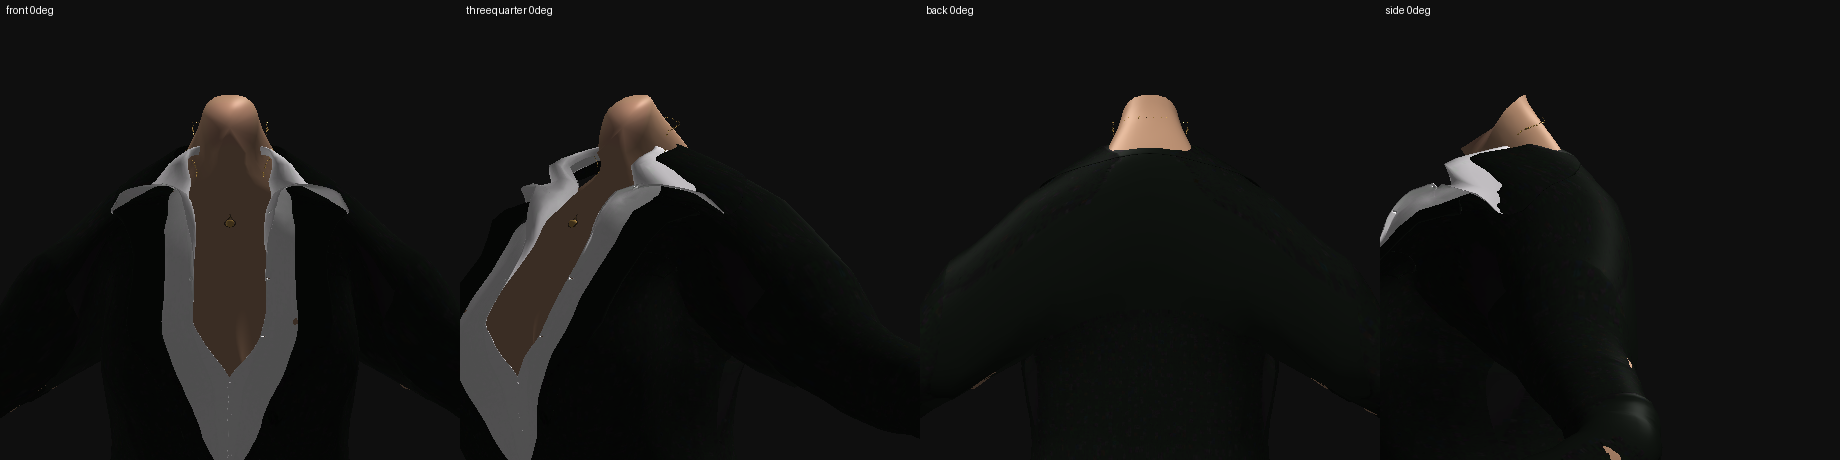
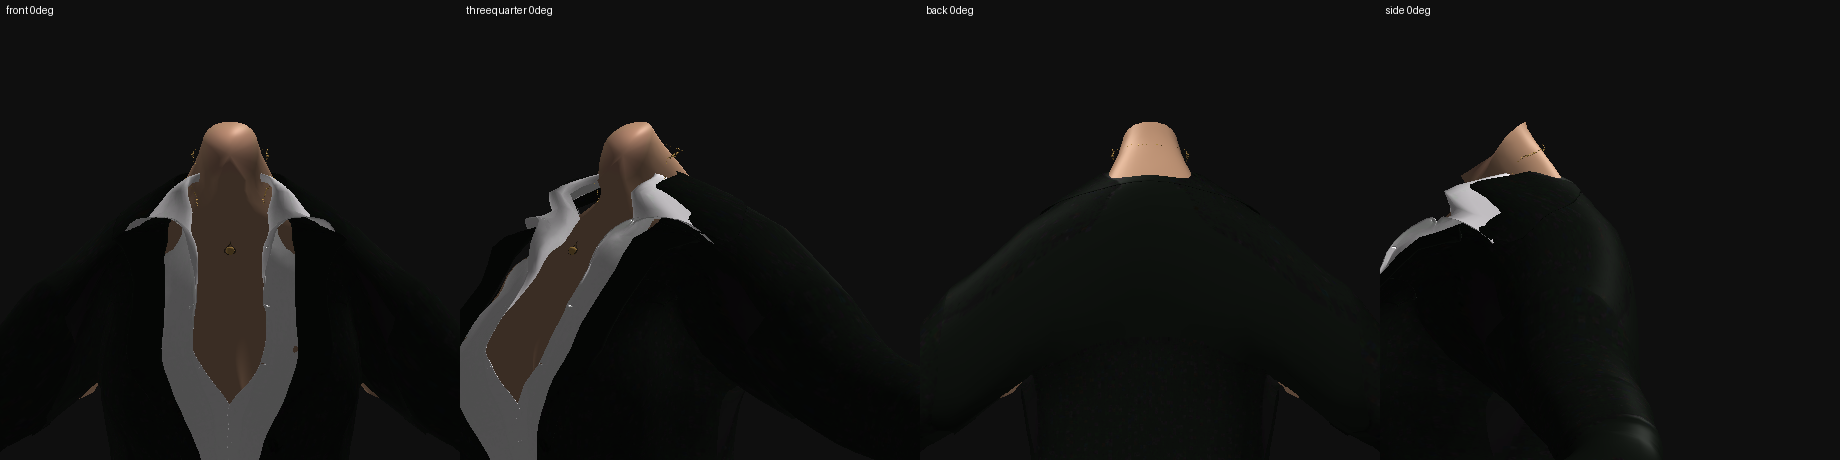
fix(skyrim): nest shoulder layers after garment redress

diff --git a/tools/pd2-las/build_business_woman.py b/tools/pd2-las/build_business_woman.py
@@ -305,41 +305,6 @@ def main(argv=None) -> int:
         n = bm.restore_bust(groups[gname])
         print(f"[{gname}] bust verts restored: {n}")
 
-    # A thin line of underarm skin renders in front of the blazer's overlap
-    # armhole after the retarget. Tuck that skin behind the jacket (the jacket
-    # itself is left alone — welding its overlap edges distorts the sleeve).
-    for gname in ("body", "shadow"):
-        n = bm.tuck_underarm_skin(groups[gname], amount=1.2)
-        print(f"[{gname}] underarm skin verts tucked: {n}")
-
-    # The white shirt's sleeves (jacket2) are 100% arm-weighted and sit below the
-    # shoulder-stay band, so they poke through the blazer sleeve as white patches
-    # on the upper arm in-game. Tuck them behind the blazer (blazer untouched).
-    for gname in ("body", "shadow"):
-        n = bm.tuck_shirt_sleeves(groups[gname])
-        print(f"[{gname}] shirt sleeve verts tucked: {n}")
-
-    # The garment sheets carry *duplicated* seam rows: BodySlide exports the
-    # vertices on each UV island's edge twice, coincident, and the retarget gives
-    # each copy its own influence list. Where the two copies disagree (measured:
-    # one copy 100 % `LeftArm`, the other 41 % `Spine2` / 37 % `LeftShoulder` /
-    # 21 % `LeftArm`) the seam splits open the moment the arm leaves the bind
-    # pose, which is the torn shoulder / upper-arm hole in the shipped pack.
-    # Averaging the two copies' weights closes it at every pose.
-    for gname in ("body", "shadow"):
-        rep = bm.weld_open_seams(groups[gname])
-        print(f"[{gname}] open seams fused: {rep['pairs']} pairs {rep['materials']}")
-
-    # The shirt's shoulder is 100 % arm-weighted while the blazer keeps a mixed
-    # shoulder-stay band, so the shirt swings out from under the jacket and
-    # stands up over the shoulder line (the white "wings" in game). Ride the
-    # shirt on the blazer's weights across the shoulder band.
-    for gname in ("body", "shadow"):
-        n = bm.follow_layer_weights(groups[gname])
-        print(f"[{gname}] shirt shoulder verts follow the blazer: {n}")
-        n = bm.tuck_shirt_collar(groups[gname])
-        print(f"[{gname}] shirt collar verts drawn inside the blazer: {n}")
-
     # The retarget's axial spine stretch also lifts and widens the 3BA neck stub
     # (18.8 cm wide at 160 cm; the PD2 reference body is 9.4 cm there), so the
     # neck reads as a stovepipe rising out of the collar. Slim the column before
@@ -361,6 +326,40 @@ def main(argv=None) -> int:
                                      mats=("jacket", "jacket2", "necklace"))
         print(f"[{gname}] garment re-dressed from the source: {rep['moved']} verts "
               f"(peak {rep['peak']:.1f} cm, body scale {rep['scale']:.3f})")
+
+    # Re-dressing changes the jacket/shirt/body clearances. Therefore finish the
+    # shoulder-layer operations AFTER re-dress; doing them before it lets the
+    # re-dress undo the tuck and recreate the very skin/white-shirt tears seen
+    # in the in-game screenshots. First make the open seam rows deform together.
+    for gname in ("body", "shadow"):
+        rep = bm.weld_open_seams(groups[gname])
+        print(f"[{gname}] post-redress open seams fused: "
+              f"{rep['pairs']} pairs {rep['materials']}")
+
+    # The shirt shoulder and the skin beneath the blazer must use the shell's
+    # shoulder-stay weights; otherwise they swing out from under it in idle.
+    for gname in ("body", "shadow"):
+        n = bm.follow_layer_weights(groups[gname], dst_mats=("jacket2",),
+                                    z_lo=136.0, z_hi=160.0,
+                                    max_dist=9.0, x_max=38.0)
+        print(f"[{gname}] shirt shoulder weights follow blazer: {n}")
+        n = bm.follow_layer_weights(groups[gname], dst_mats=("skin",),
+                                    z_lo=136.0, z_hi=160.0,
+                                    max_dist=6.0, x_min=12.0, x_max=38.0)
+        print(f"[{gname}] covered shoulder skin follows blazer weights: {n}")
+
+    # Reapply the actual layer nesting after re-dress: tuck the inner shirt and
+    # body skin behind the blazer only where the outer shell covers them. Include
+    # the shoulder cap (not just the low underarm band) to remove exposed patches.
+    for gname in ("body", "shadow"):
+        n = bm.tuck_shirt_collar(groups[gname])
+        print(f"[{gname}] shirt collar drawn inside blazer: {n}")
+        n = bm.tuck_shirt_sleeves(groups[gname], amount=2.0, near=4.5,
+                                  z_lo=116.0, z_hi=160.0, x_min=18.0)
+        print(f"[{gname}] shirt sleeve/shoulder tucked: {n}")
+        n = bm.tuck_underarm_skin(groups[gname], amount=1.6, near=3.0,
+                                  z_lo=125.0, z_hi=160.0, x_min=11.0)
+        print(f"[{gname}] covered shoulder skin tucked: {n}")
 
     # Every arm layer stops short of the PD2 hand joint (blazer 6.3 cm, shirt
     # cuff 7.5 cm, bare arm 8 cm) because in Skyrim the wearer's own hands used

diff --git a/tools/pd2-las/build_models.py b/tools/pd2-las/build_models.py
@@ -2245,7 +2245,7 @@ def redress_from_source(g: Group, model, mats=("jacket", "jacket2"),
 def follow_layer_weights(g: Group, src_mat: str = "jacket",
                          dst_mats=("jacket2",), z_lo: float = 136.0,
                          z_hi: float = 158.0, max_dist: float = 9.0,
-                         x_max: float = 30.0) -> int:
+                         x_min: float = 0.0, x_max: float = 30.0) -> int:
     """Make an under-layer ride the outer layer over the shoulder.
 
     The white shirt (``jacket2``) is 100 % arm-weighted all the way across the
@@ -2255,9 +2255,11 @@ def follow_layer_weights(g: Group, src_mat: str = "jacket",
     "wings" that flare past the jacket's shoulder line in game (they are absent
     in the bind-pose render, which is why they survived earlier reviews).
 
-    Copying the nearest blazer vertex's influence list onto the shirt in the
-    shoulder band makes both layers deform identically there, so the shirt
-    cannot emerge at any pose. Positions, UVs and topology are untouched.
+    Copying the nearest blazer vertex's influence list onto the selected inner
+    material in the shoulder band makes both layers deform identically there.
+    ``x_min`` can limit this to the lateral shoulder skin underneath the shell,
+    keeping the exposed centre chest on its original body weights. Positions,
+    UVs and topology are untouched.
     """
     import numpy as np
 
@@ -2267,7 +2269,7 @@ def follow_layer_weights(g: Group, src_mat: str = "jacket",
             continue
         for i in range(base_v, base_v + nverts):
             x, y, z = g.verts[i]
-            if z_lo <= z <= z_hi and abs(x) <= x_max:
+            if z_lo <= z <= z_hi and x_min <= abs(x) <= x_max:
                 src.append((np.array([x, y, z]), list(g.weights[i])))
     if not src:
         return 0
@@ -2278,7 +2280,7 @@ def follow_layer_weights(g: Group, src_mat: str = "jacket",
             continue
         for i in range(base_v, base_v + nverts):
             x, y, z = g.verts[i]
-            if not (z_lo <= z <= z_hi and abs(x) <= x_max):
+            if not (z_lo <= z <= z_hi and x_min <= abs(x) <= x_max):
                 continue
             p = np.array([x, y, z])
             j = int(np.argmin(np.linalg.norm(pts - p, axis=1)))

diff --git a/tests/test_hands_graft.py b/tests/test_hands_graft.py
@@ -92,6 +92,22 @@ def test_turn_body_is_rigid_and_plants_the_feet():
     assert g.verts[0][1] < before[0][1]
 
 
+def test_follow_layer_weights_can_match_only_lateral_shoulder_skin():
+    """Skin hidden under the shell follows its shoulder weights; chest does not."""
+    g = bm.Group(name="g")
+    g.verts = [(20.0, 0.0, 145.0), (20.0, 0.0, 145.0), (5.0, 0.0, 145.0)]
+    g.weights = [[(0, 1.0)], [(1, 1.0)], [(1, 1.0)]]
+    g.slices = [("jacket", 0, 0, 0, 1), ("skin", 1, 0, 0, 2)]
+
+    touched = bm.follow_layer_weights(g, dst_mats=("skin",), z_lo=136,
+                                      z_hi=160, max_dist=6,
+                                      x_min=12, x_max=38)
+
+    assert touched == 1
+    assert g.weights[1] == [(0, 1.0)]   # covered shoulder skin follows shell
+    assert g.weights[2] == [(1, 1.0)]   # exposed centre chest is unchanged
+
+
 def test_count_hand_verts_flags_only_hand_dominated_verts():
     g = bm.Group(name="g")
     g.palette = ["LeftForeArm", "LeftHand", "LeftHandIndex1"]

diff --git a/docs/skyrim-nif/HANDOFF.md b/docs/skyrim-nif/HANDOFF.md
@@ -24,14 +24,14 @@ notes **28–39**. User-side game test: [`in-game-checklist.md`](in-game-checkli
 | | |
 |---|---|
 | Branch | `arena/97ae3b36-universal-modder` (active). |
[2 lines of base64/hex data omitted]
 | Hands | **adapter route** — no hand geometry shipped; build aborts if any vert is >0.5 hand-bone weighted (`count_hand_verts`) |
 | Head | none shipped; template `g_head`/`g_head_lod1` dropped; neck closed with `cap_holes` |
 | Body skin tone | matched to Miranda head diffuse: base `(172,134,106)`, unity gain; shipped `bw_body_df` median `(172,133,106)` |
 | Neck | full-height neck kept; upper outfit pitched back 1.8° about waist (`turn_upper_body`) to align to the heister head without tilting legs |
 | Forearms | shirt cuff retracted (9 up / 2.5 inward) + blazer sleeve extended ~3 cm to overlap glove |
 | Bust | source-faithful **1.32×** (`restore_bust`) — do NOT dial back |
-| Gates | pytest **451 passed / 9 skipped / 1 pre-existing fail**; kb **PASS 246**; publish **26 / 0 / 1**; pyflakes clean |
+| Gates | pytest **442 passed / 10 skipped / 1 pre-existing fail**; kb **PASS 246**; publish **26 / 0 / 1**; pyflakes clean |
 
 The single pytest failure, `tests/test_build_models.py::test_retarget_joint_errors_and_palettes`
 (Miranda tpp RightArm ~5.7 cm), is **pre-existing and unrelated** to BusinessWoman. Do not
@@ -150,11 +150,11 @@ Skin tone: `tools/pd2-las/skin_texture.py` `REFERENCE_TONE=(172,134,106)`,
   collar nip. If they still flare in game, raise the *blazer's* collar, do not shrink the
   shirt further.
 - **Neck/head/shoulder alignment: current focus.** The user supplied in-game front and
-  side screenshots plus a Clover body and the Melodic source outfit for comparison. The
-  neck must reach the head opening; do not shorten it to make the collar appear to fit.
-  Use a small waist-pivoted upper-body pitch so legs stay vertical and the shoulder line
-  is not dragged by a whole-body tilt. Keep those reference images' intent in mind for
-  future iterations; the upload itself is transient and is not checked into Git.
+  side screenshots plus a Clover body and the Melodic source outfit for comparison; all
+  are saved under `reference-images/neck-alignment/`. The first waist-pivot pitch did not
+  fix the shoulder tears. Current correction re-nests shirt and skin layers AFTER
+  `redress_from_source`, because redressing had undone the earlier tucks. The neck remains
+  full height.
 - **In-game head reads lighter than body albedo** under some scene lighting. The albedo
   match is correct offline; if the user complains, tune body tone to compensate for the
   *in-game* head appearance, not the offline median.

diff --git a/docs/skyrim-nif/FIXES-2026-11-04.md b/docs/skyrim-nif/FIXES-2026-11-04.md
@@ -417,3 +417,16 @@ in place. Rebuild the game pack and verify against the in-game screenshots befor
 calling this visually complete. Current verification: **451 passed, 9 skipped**;
 the known unrelated `RightArm` retarget threshold failure remains (5.713 cm).
[1 lines of base64/hex data omitted]
+
+
+---
+
+# Round 7 — post-redress layer nesting for shoulder tears
+
+The user's follow-up in-game screenshots (saved as `reference-images/neck-alignment/followup-15.png` through `followup-17.png`) show Round 6's waist-pivot pitch alone did not solve it: pale skin/white-shirt patches still break through the shoulder shell, and the collar remains untidy.
+
+Root cause found in the pass order: `tuck_underarm_skin`, `tuck_shirt_sleeves`, `follow_layer_weights`, and `tuck_shirt_collar` all ran **before** `redress_from_source`. Re-dressing then moved the jacket and shirt back over the body and recreated the intersections, invalidating those clearances. The build now runs seam welding, shirt/covered-skin shoulder weight matching, collar nesting, and skin/shirt tucks **after** re-dressing. The inner shirt and body skin are tucked only in the covered shoulder/sleeve region; center-chest skin remains on its original weights. Both body and shadow get identical passes.
+
+This is a pipeline-order correction directly motivated by the supplied game screenshots; the previous 1.8° pitch is retained only as the small head-axis alignment. Full neck length is retained. The follow-up images are kept with the first reference set for future review.
+
[1 lines of base64/hex data omitted]

diff --git a/docs/skyrim-nif/reference-images/neck-alignment/README.md b/docs/skyrim-nif/reference-images/neck-alignment/README.md
@@ -3,3 +3,8 @@
 These are the five images the user supplied on 2026-11-04, saved as visual ground truth for future iterations. `upload-10.png` through `upload-14.png` retain the attachment names; see the conversation for their original display order. The set includes the current in-game views, the Clover-body posture reference, and the Melodic Business Woman source-outfit reference.
 
 Acceptance notes are in [`../../FIXES-2026-11-04.md`](../../FIXES-2026-11-04.md), Round 6: keep the neck full length, align the upper torso to the heister's head by a waist-pivoted pitch, and keep the legs upright and shoulders natural.
+
+The three `followup-15.png` through `followup-17.png` images are the user's
+follow-up in-game views after the first 1.8° pitch build. They show that the
+shoulder tears and collar/neck mismatch remained; they prompted Round 7's
+post-redress layer-clearance correction.
